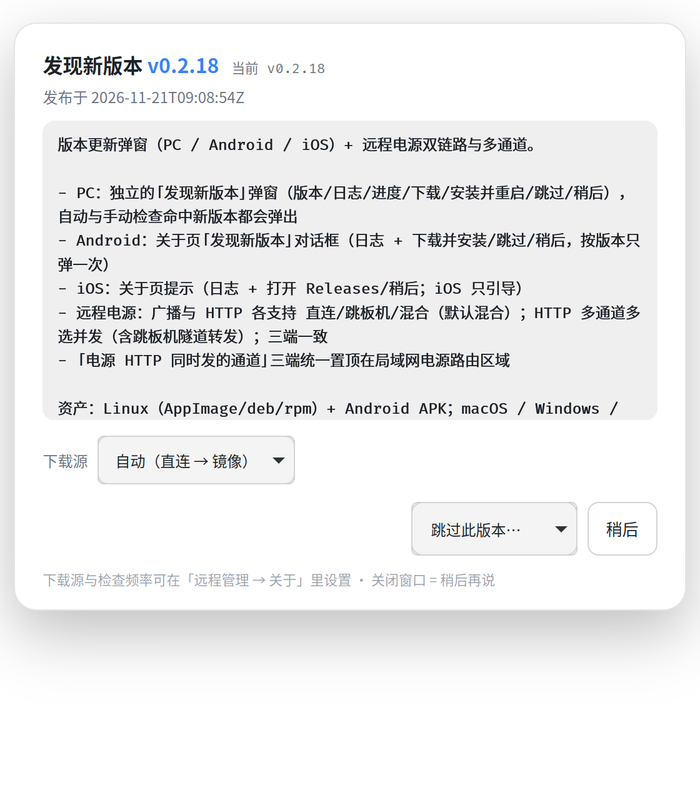
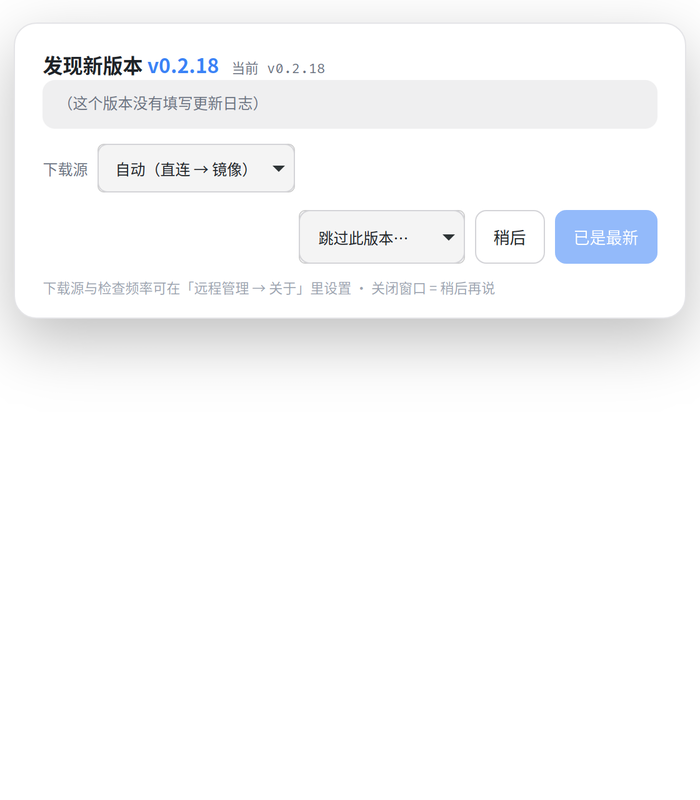
fix(update/pc): 主按钮（下载/安装）改为常显——之前只有 available 才渲染，已最新/检查中时看不到按钮
- 主按钮按 phase 显示：检查中…/已是最新/下载/下载中 x%/校验中/安装并重启/安装中/重试下载/重新检查
- 已最新时置灰并带 tooltip「当前已经是最新版本，无需下载」，不再是没有下载按钮
- 截图更新 docs/screenshots/update-popup-pc.png

diff --git a/ui-vue/src/components/update/UpdateDialog.vue b/ui-vue/src/components/update/UpdateDialog.vue
@@ -56,8 +56,47 @@ const bytesText = computed(() => {
   return `${mb(downloaded)}/${mb(total)} MB`;
 });
 const downloading = computed(() => phase.value === "downloading" || phase.value === "verifying");
-const canDownload = computed(() => phase.value === "available" || (phase.value === "error" && !!state.value?.assetName));
 const canInstall = computed(() => phase.value === "ready_to_install" || phase.value === "installing");
+/** 主按钮永远可见：有新版本=下载；下载/校验/安装中=对应文案；已最新/检查中=置灰并说明 */
+const primaryLabel = computed(() => {
+  switch (phase.value) {
+    case "available":
+      return "下载";
+    case "downloading":
+      return `下载中 ${percent.value}%`;
+    case "verifying":
+      return "校验中…";
+    case "ready_to_install":
+      return "安装并重启";
+    case "installing":
+      return "安装中…";
+    case "checking":
+      return "检查中…";
+    case "up_to_date":
+      return "已是最新";
+    case "error":
+      return state.value?.assetName ? "重试下载" : "重新检查";
+    default:
+      return "检查更新";
+  }
+});
+const primaryDisabled = computed(() =>
+  busy.value || ["downloading", "verifying", "installing", "checking", "up_to_date", "idle"].includes(phase.value),
+);
+function onPrimary(): void {
+  switch (phase.value) {
+    case "available":
+    case "error":
+      if (state.value?.assetName) void run("update_download");
+      else void run("update_check");
+      break;
+    case "ready_to_install":
+      void run("update_install");
+      break;
+    default:
+      break;
+  }
+}
 
 function applyState(next: UpdateState | null): void {
   if (!next) return;
@@ -202,11 +241,14 @@ onMounted(async () => {
         <option value="0">永久跳过此版本</option>
       </select>
       <button type="button" class="ghost" @click="close">稍后</button>
-      <button v-if="canDownload" type="button" class="primary" :disabled="busy || downloading" @click="run('update_download')">
-        {{ downloading ? "下载中…" : "下载" }}
-      </button>
-      <button v-if="canInstall" type="button" class="primary" :disabled="busy || phase === 'installing'" @click="run('update_install')">
-        {{ phase === "installing" ? "安装中…" : "安装并重启" }}
+      <button
+        type="button"
+        class="primary"
+        :disabled="primaryDisabled"
+        :title="phase === 'up_to_date' ? '当前已经是最新版本，无需下载' : ''"
+        @click="onPrimary"
+      >
+        {{ primaryLabel }}
       </button>
     </footer>
     <p class="upd-hint">下载源与检查频率可在「远程管理 → 关于」里设置 · 关闭窗口 = 稍后再说</p>

diff --git a/src-tauri/src/ui_assets.rs b/src-tauri/src/ui_assets.rs
@@ -8,9 +8,9 @@
 
 /// (相对路径, Content-Type, 文件正文)
 pub(crate) const UI_ASSETS: &[(&str, &str, &str)] = &[
-    ("assets/UpdateDialog-rthjwefI.css", "text/css; charset=utf-8", include_str!("../../ui-vue/dist/assets/UpdateDialog-rthjwefI.css")),
+    ("assets/UpdateDialog-YeLCtRmV.css", "text/css; charset=utf-8", include_str!("../../ui-vue/dist/assets/UpdateDialog-YeLCtRmV.css")),
     ("assets/WindowNavMenu-b7GIYbbS.css", "text/css; charset=utf-8", include_str!("../../ui-vue/dist/assets/WindowNavMenu-b7GIYbbS.css")),
-    ("assets/chunks/AboutPage-DmPBpLyZ.js", "text/javascript; charset=utf-8", include_str!("../../ui-vue/dist/assets/chunks/AboutPage-DmPBpLyZ.js")),
+    ("assets/chunks/AboutPage-axXW6oBz.js", "text/javascript; charset=utf-8", include_str!("../../ui-vue/dist/assets/chunks/AboutPage-axXW6oBz.js")),
     ("assets/chunks/GrubList.vue_vue_type_script_setup_true_lang-CoaOrf_f.js", "text/javascript; charset=utf-8", include_str!("../../ui-vue/dist/assets/chunks/GrubList.vue_vue_type_script_setup_true_lang-CoaOrf_f.js")),
     ("assets/chunks/LoaderIcon.vue_vue_type_script_setup_true_lang-DLdGiWNG.js", "text/javascript; charset=utf-8", include_str!("../../ui-vue/dist/assets/chunks/LoaderIcon.vue_vue_type_script_setup_true_lang-DLdGiWNG.js")),
     ("assets/chunks/ThemeA-BI_oFRqn.js", "text/javascript; charset=utf-8", include_str!("../../ui-vue/dist/assets/chunks/ThemeA-BI_oFRqn.js")),
@@ -19,7 +19,7 @@ pub(crate) const UI_ASSETS: &[(&str, &str, &str)] = &[
     ("assets/chunks/ThemeG-DOcrtD_q.js", "text/javascript; charset=utf-8", include_str!("../../ui-vue/dist/assets/chunks/ThemeG-DOcrtD_q.js")),
     ("assets/chunks/ThemeI-DGVPPdqY.js", "text/javascript; charset=utf-8", include_str!("../../ui-vue/dist/assets/chunks/ThemeI-DGVPPdqY.js")),
     ("assets/chunks/ThemeJ-CJWIjdKg.js", "text/javascript; charset=utf-8", include_str!("../../ui-vue/dist/assets/chunks/ThemeJ-CJWIjdKg.js")),
-    ("assets/chunks/UpdateDialog-DuIUexx0.js", "text/javascript; charset=utf-8", include_str!("../../ui-vue/dist/assets/chunks/UpdateDialog-DuIUexx0.js")),
+    ("assets/chunks/UpdateDialog-DDNLCcDm.js", "text/javascript; charset=utf-8", include_str!("../../ui-vue/dist/assets/chunks/UpdateDialog-DDNLCcDm.js")),
     ("assets/chunks/WindowNavMenu-308R_lYI.js", "text/javascript; charset=utf-8", include_str!("../../ui-vue/dist/assets/chunks/WindowNavMenu-308R_lYI.js")),
     ("assets/chunks/_plugin-vue_export-helper-BOfOurH5.js", "text/javascript; charset=utf-8", include_str!("../../ui-vue/dist/assets/chunks/_plugin-vue_export-helper-BOfOurH5.js")),
     ("assets/chunks/app-BIl1ON0B.js", "text/javascript; charset=utf-8", include_str!("../../ui-vue/dist/assets/chunks/app-BIl1ON0B.js")),
@@ -28,7 +28,7 @@ pub(crate) const UI_ASSETS: &[(&str, &str, &str)] = &[
     ("assets/chunks/tauri-B-3-4Cv6.js", "text/javascript; charset=utf-8", include_str!("../../ui-vue/dist/assets/chunks/tauri-B-3-4Cv6.js")),
     ("assets/chunks/toast-CSfMWcAc.js", "text/javascript; charset=utf-8", include_str!("../../ui-vue/dist/assets/chunks/toast-CSfMWcAc.js")),
     ("assets/chunks/useEscape-CxH9KG8l.js", "text/javascript; charset=utf-8", include_str!("../../ui-vue/dist/assets/chunks/useEscape-CxH9KG8l.js")),
-    ("assets/hub-BUPVuFLE.js", "text/javascript; charset=utf-8", include_str!("../../ui-vue/dist/assets/hub-BUPVuFLE.js")),
+    ("assets/hub-B_YmVJ7H.js", "text/javascript; charset=utf-8", include_str!("../../ui-vue/dist/assets/hub-B_YmVJ7H.js")),
     ("assets/hub-CXNh5Sqi.css", "text/css; charset=utf-8", include_str!("../../ui-vue/dist/assets/hub-CXNh5Sqi.css")),
     ("assets/hub-backup-DYB8sr6W.js", "text/javascript; charset=utf-8", include_str!("../../ui-vue/dist/assets/hub-backup-DYB8sr6W.js")),
     ("assets/hub-backup-DnIuWeWO.css", "text/css; charset=utf-8", include_str!("../../ui-vue/dist/assets/hub-backup-DnIuWeWO.css")),
@@ -40,7 +40,7 @@ pub(crate) const UI_ASSETS: &[(&str, &str, &str)] = &[
     ("assets/hub-term-xyK6d8H4.js", "text/javascript; charset=utf-8", include_str!("../../ui-vue/dist/assets/hub-term-xyK6d8H4.js")),
     ("assets/index-BLYvSY_k.css", "text/css; charset=utf-8", include_str!("../../ui-vue/dist/assets/index-BLYvSY_k.css")),
     ("assets/index-BPlVkg6Z.js", "text/javascript; charset=utf-8", include_str!("../../ui-vue/dist/assets/index-BPlVkg6Z.js")),
-    ("assets/update-Bb_8tvuk.js", "text/javascript; charset=utf-8", include_str!("../../ui-vue/dist/assets/update-Bb_8tvuk.js")),
+    ("assets/update-ZCcH-QCN.js", "text/javascript; charset=utf-8", include_str!("../../ui-vue/dist/assets/update-ZCcH-QCN.js")),
     ("hub-backup.html", "text/html; charset=utf-8", include_str!("../../ui-vue/dist/hub-backup.html")),
     ("hub-files.html", "text/html; charset=utf-8", include_str!("../../ui-vue/dist/hub-files.html")),
     ("hub-keys.html", "text/html; charset=utf-8", include_str!("../../ui-vue/dist/hub-keys.html")),
